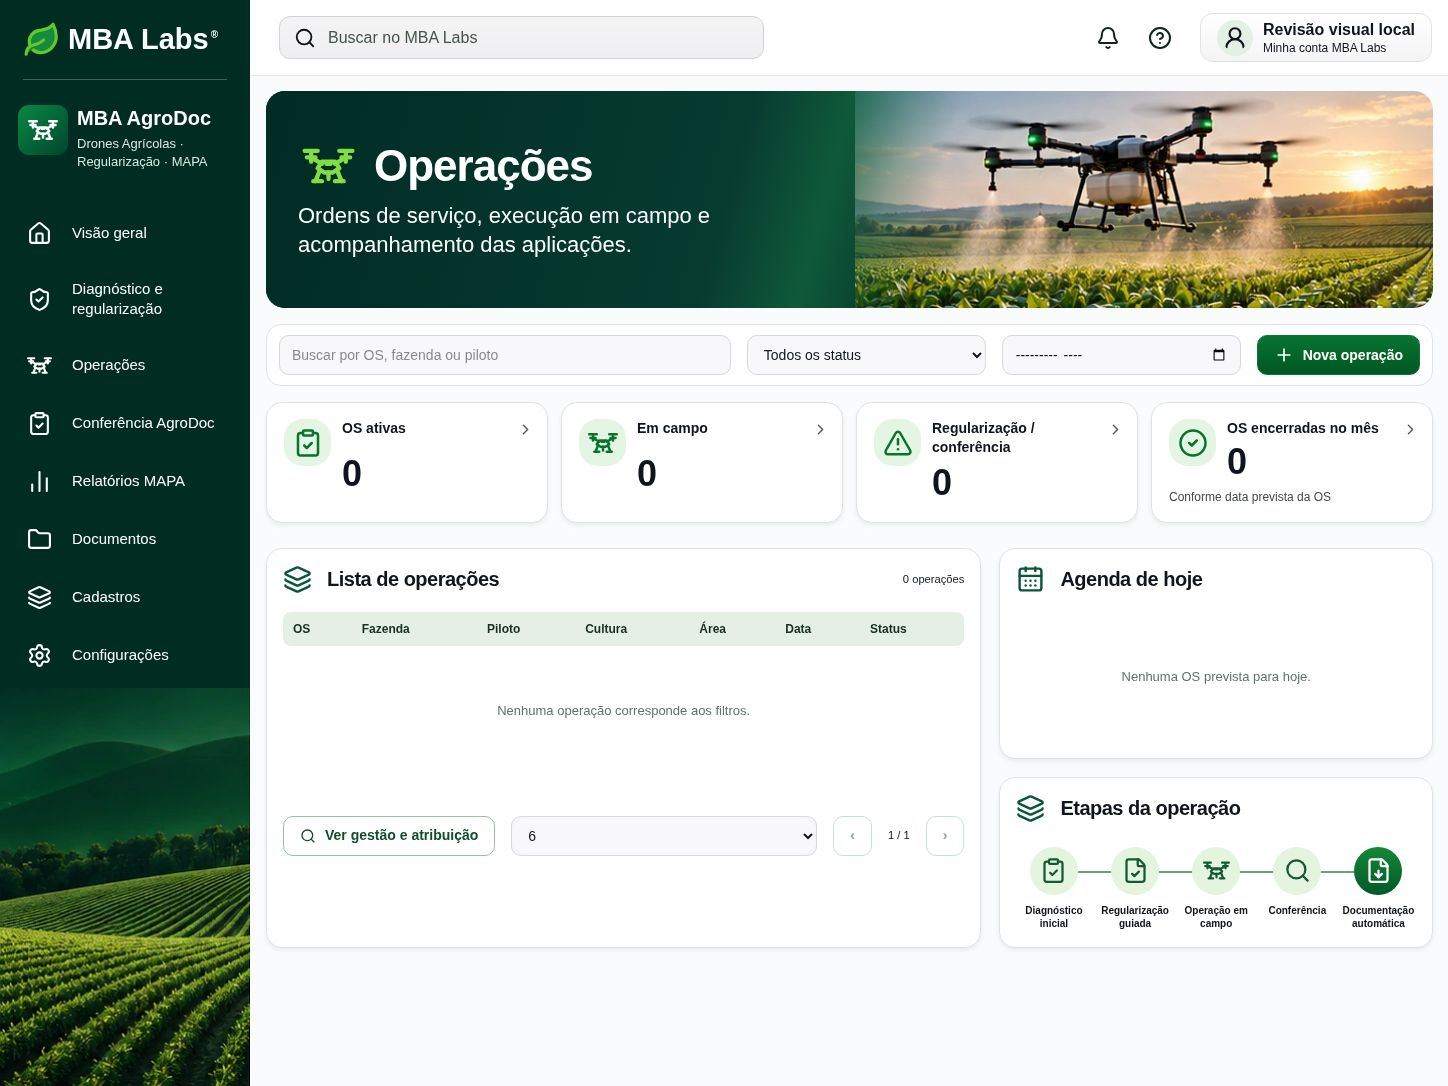
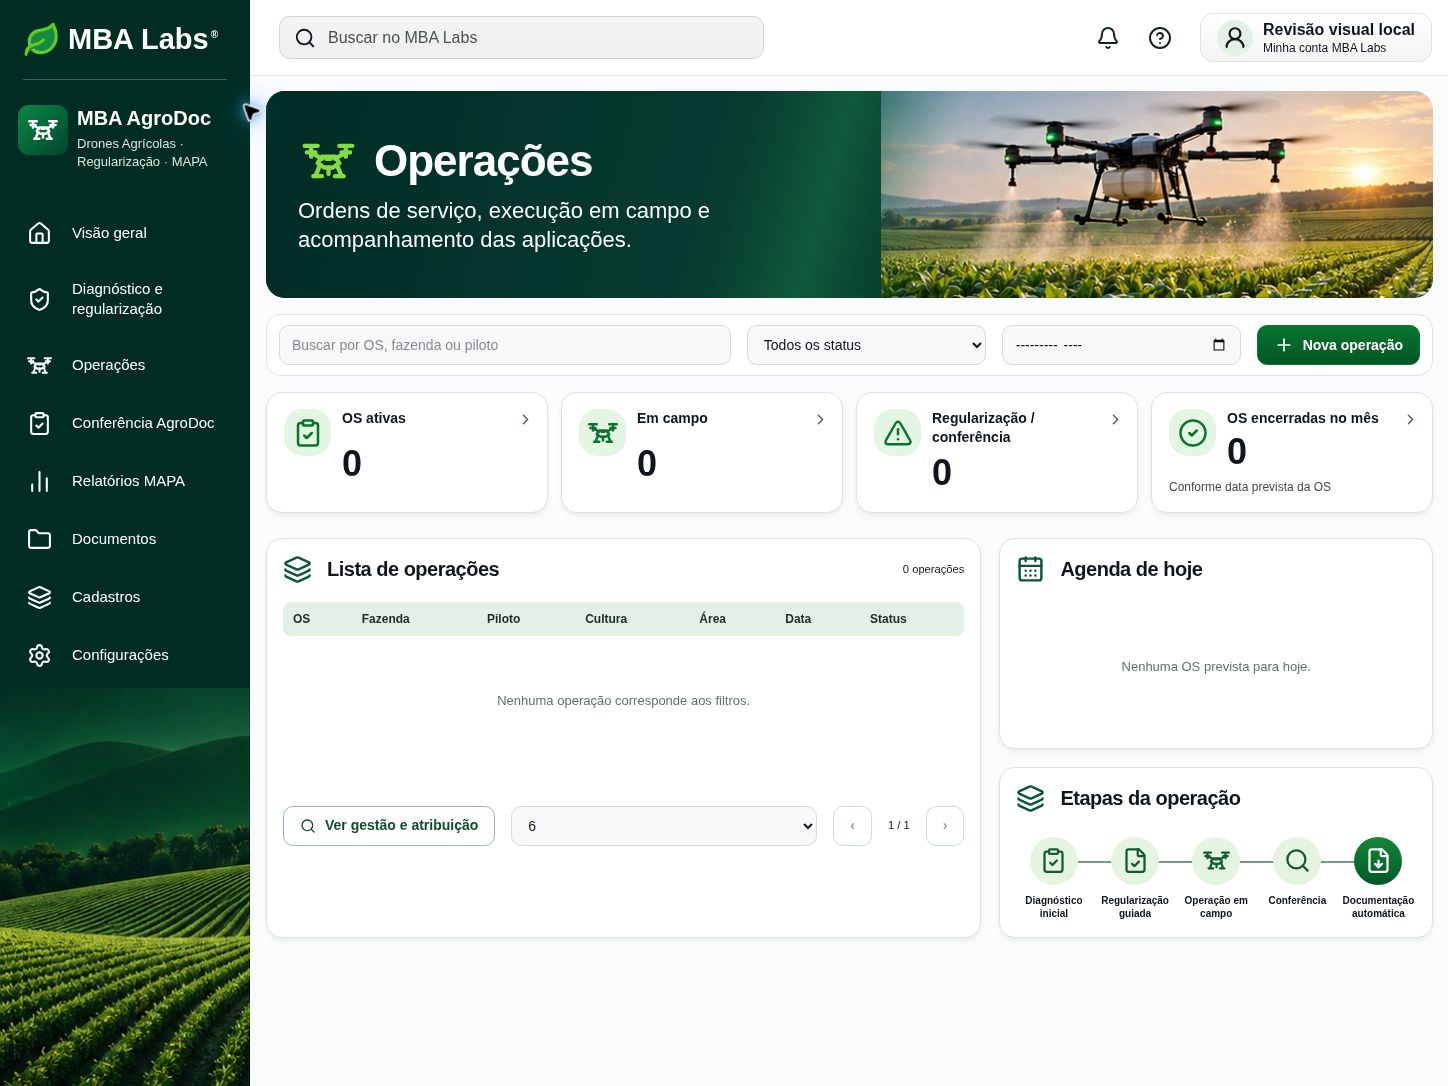
fix(agrodoc): align page proportions with desktop references

diff --git a/apps/mba-labs-core/src/app/apps/dronegestor/agrodoc.css b/apps/mba-labs-core/src/app/apps/dronegestor/agrodoc.css
@@ -1691,3 +1691,77 @@
     overflow-y: auto;
   }
 }
+/* Banner dimensions follow each supplied desktop reference. */
+@media (min-width: 1025px) {
+  .agro-hero-reports {
+    height: 193px;
+    min-height: 193px;
+  }
+  .agro-hero-documents {
+    height: 159px;
+    min-height: 159px;
+  }
+  .agro-hero-registry {
+    height: 149px;
+    min-height: 149px;
+  }
+  .agro-hero-settings {
+    height: 113px;
+    min-height: 113px;
+  }
+  .agro-hero-review {
+    height: 138px;
+    min-height: 138px;
+  }
+  .agro-hero-operations.agro-hero-large {
+    height: 207px;
+    min-height: 207px;
+  }
+  .agro-hero-settings > div {
+    padding-block: 18px;
+  }
+  .agro-hero-settings h1 {
+    font-size: 36px !important;
+  }
+  .agro-hero-settings p {
+    font-size: 16px;
+  }
+  .agro-hero-reports p {
+    font-size: 21px;
+    max-width: 430px;
+  }
+  .agro-hero-registry + .agro-kpis .agro-kpi {
+    min-height: 80px;
+    padding: 12px;
+  }
+  .agro-hero-registry + .agro-kpis .agro-kpi strong {
+    font-size: 32px;
+  }
+  .agro-register-sections .agro-empty {
+    min-height: 80px;
+  }
+  .agro-diagnostic .agro-hero {
+    margin-bottom: 10px;
+  }
+  .agro-diagnostic-table input,
+  .agro-diagnostic-table select {
+    min-height: 23px;
+    padding-block: 2px;
+  }
+  .agro-diagnostic .agro-diagnostic-table td {
+    padding-block: 3px;
+    height: 30px;
+  }
+  .agro-review-columns
+    > .agro-stack:first-child
+    > .agro-card:first-child
+    > .agro-card-heading {
+    display: none;
+  }
+  .agro-review-photo {
+    height: 176px;
+  }
+}
+.agro-decision-actions {
+  flex-direction: row-reverse;
+}

diff --git a/apps/mba-labs-core/src/app/apps/dronegestor/conferencia/AgroDocReviewCenter.tsx b/apps/mba-labs-core/src/app/apps/dronegestor/conferencia/AgroDocReviewCenter.tsx
@@ -24,6 +24,8 @@ import {
 
 type Product = { nome?: string; dose?: number; unidade?: string };
 type Summary = {
+  climaCampoConfirmado?: boolean;
+  sarpasConfirmado?: boolean;
   ordemServicoId?: string;
   iniciadaEm?: string;
   ordemServicoNumero?: string;
@@ -318,7 +320,7 @@ function OperationRow({ item, done }: { item: Item; done: () => void }) {
           {message}
         </p>
       )}
-      <div className="mt-4 flex flex-wrap gap-2">
+      <div className="agro-decision-actions mt-4 flex flex-wrap gap-2">
         <button
           disabled={busy || many}
           onClick={() => void save("aprovado")}
@@ -429,6 +431,7 @@ export function AgroDocReviewCenter() {
   return (
     <div>
       <AgroDocHero
+        variant="review"
         title={
           <>
             Conferência <em>AgroDoc</em>
@@ -617,6 +620,14 @@ export function AgroDocReviewCenter() {
                     summary.produtos[0].nome &&
                     Number(summary.produtos[0].dose) > 0,
                   ),
+                ],
+                [
+                  "Condições climáticas confirmadas no campo",
+                  summary?.climaCampoConfirmado === true,
+                ],
+                [
+                  "Liberação SARPAS registrada pelo piloto",
+                  summary?.sarpasConfirmado === true,
                 ],
                 [
                   "Horas efetivas revisadas",

diff --git a/apps/mba-labs-core/src/app/apps/dronegestor/AgroDocUi.tsx b/apps/mba-labs-core/src/app/apps/dronegestor/AgroDocUi.tsx
@@ -16,13 +16,25 @@ export function AgroDocHero({
   title,
   description,
   large = false,
+  variant = "default",
 }: {
   title: ReactNode;
   description: string;
   large?: boolean;
+  variant?:
+    | "default"
+    | "diagnostic"
+    | "operations"
+    | "review"
+    | "reports"
+    | "documents"
+    | "registry"
+    | "settings";
 }) {
   return (
-    <section className={`agro-hero ${large ? "agro-hero-large" : ""}`}>
+    <section
+      className={`agro-hero agro-hero-${variant} ${large ? "agro-hero-large" : ""}`}
+    >
       <div>
         <h1>
           <Drone aria-hidden="true" />

diff --git a/apps/mba-labs-core/src/app/apps/dronegestor/AgroDocOperations.tsx b/apps/mba-labs-core/src/app/apps/dronegestor/AgroDocOperations.tsx
@@ -90,6 +90,7 @@ export function AgroDocOperations({
     return (
       <>
         <AgroDocHero
+          variant="operations"
           title="Minhas operações"
           description="Ordens atribuídas a você, execução em campo e acompanhamento dos registros."
         />
@@ -99,6 +100,7 @@ export function AgroDocOperations({
   return (
     <>
       <AgroDocHero
+        variant="operations"
         large
         title="Operações"
         description="Ordens de serviço, execução em campo e acompanhamento das aplicações."

diff --git a/apps/mba-labs-core/src/app/apps/dronegestor/configuracoes/AgroDocSettings.tsx b/apps/mba-labs-core/src/app/apps/dronegestor/configuracoes/AgroDocSettings.tsx
@@ -22,6 +22,7 @@ export function AgroDocSettings({ canManage }: { canManage: boolean }) {
   return (
     <>
       <AgroDocHero
+        variant="settings"
         title="Configurações"
         description="Preferências do módulo, integrações, permissões e modelo oficial."
       />

diff --git a/apps/mba-labs-core/src/app/apps/dronegestor/cadastros/AgroDocRegistry.tsx b/apps/mba-labs-core/src/app/apps/dronegestor/cadastros/AgroDocRegistry.tsx
@@ -36,6 +36,7 @@ export function AgroDocRegistry() {
   return (
     <>
       <AgroDocHero
+        variant="registry"
         title="Cadastros"
         description="Bases reutilizáveis da operação: drones, equipe, propriedades e clientes."
       />

diff --git a/apps/mba-labs-core/src/app/apps/dronegestor/diagnostico/AgroDocDiagnostic.tsx b/apps/mba-labs-core/src/app/apps/dronegestor/diagnostico/AgroDocDiagnostic.tsx
@@ -228,6 +228,7 @@ export function AgroDocDiagnostic() {
   return (
     <div className="agro-diagnostic">
       <AgroDocHero
+        variant="diagnostic"
         title={
           <>
             Diagnóstico e <em>regularização</em>

diff --git a/apps/mba-labs-core/src/app/apps/dronegestor/documentos/AgroDocDocuments.tsx b/apps/mba-labs-core/src/app/apps/dronegestor/documentos/AgroDocDocuments.tsx
@@ -166,6 +166,7 @@ export function AgroDocDocuments({ children }: { children: ReactNode }) {
   return (
     <>
       <AgroDocHero
+        variant="documents"
         title={
           <>
             MBA <em>AgroDoc</em> · Documentos

diff --git a/apps/mba-labs-core/src/app/apps/dronegestor/relatorio-mensal/AgroDocReports.tsx b/apps/mba-labs-core/src/app/apps/dronegestor/relatorio-mensal/AgroDocReports.tsx
@@ -108,6 +108,7 @@ export function AgroDocReports({ children }: { children: ReactNode }) {
   return (
     <>
       <AgroDocHero
+        variant="reports"
         title={
           <>
             Relatórios <em>MAPA</em>

diff --git a/docs/agrodoc-visual/README.md b/docs/agrodoc-visual/README.md
@@ -41,7 +41,7 @@ As oito capturas desktop usam uma área de renderização isolada de **1448 × 1
 
 [Celular 360 × 800](capturas/responsive-360.jpg) · [Tablet 1024 × 768](capturas/responsive-1024.jpg).
 
-Na primeira inspeção, o diagnóstico excedia a altura da referência: nomes, larguras e densidade da tabela foram ajustados. Também foram ajustados o cabeçalho mobile, os ícones agrícolas e a representação em âmbar de operações ainda não aprovadas no gráfico MAPA. O menu mobile foi aberto e fechado no navegador.
+Na primeira inspeção, o diagnóstico excedia a altura da referência: nomes, larguras e densidade da tabela foram ajustados. Uma segunda comparação ajustou as alturas individuais dos banners, a densidade dos KPIs de Cadastros e a posição da ficha/foto de conferência. Também foram ajustados o cabeçalho mobile, os ícones agrícolas e a representação em âmbar de operações ainda não aprovadas no gráfico MAPA. O menu mobile foi aberto e fechado no navegador.
 
 ## Validação executada
 
@@ -74,3 +74,5 @@ O arquivo de sessão contém credenciais e deve ficar fora do Git. Não há rota
 8. **Responsividade autenticada:** as três resoluções foram inspecionadas no cenário isolado; falta percorrer todos os formulários preenchidos, com zoom, teclado e permissões reais. A suíte Playwright preparada precisa ser executada nessa sessão.
 
 **Não fazer merge ou promover para produção antes de resolver os itens de homologação e revisar as diferenças visuais.**
+
+O preview da Vercel é protegido. A consulta autorizada confirmou a tela de login MBA Labs; sem sessão de homologação, os fluxos privados não foram executados no preview. A proteção não foi desativada.
